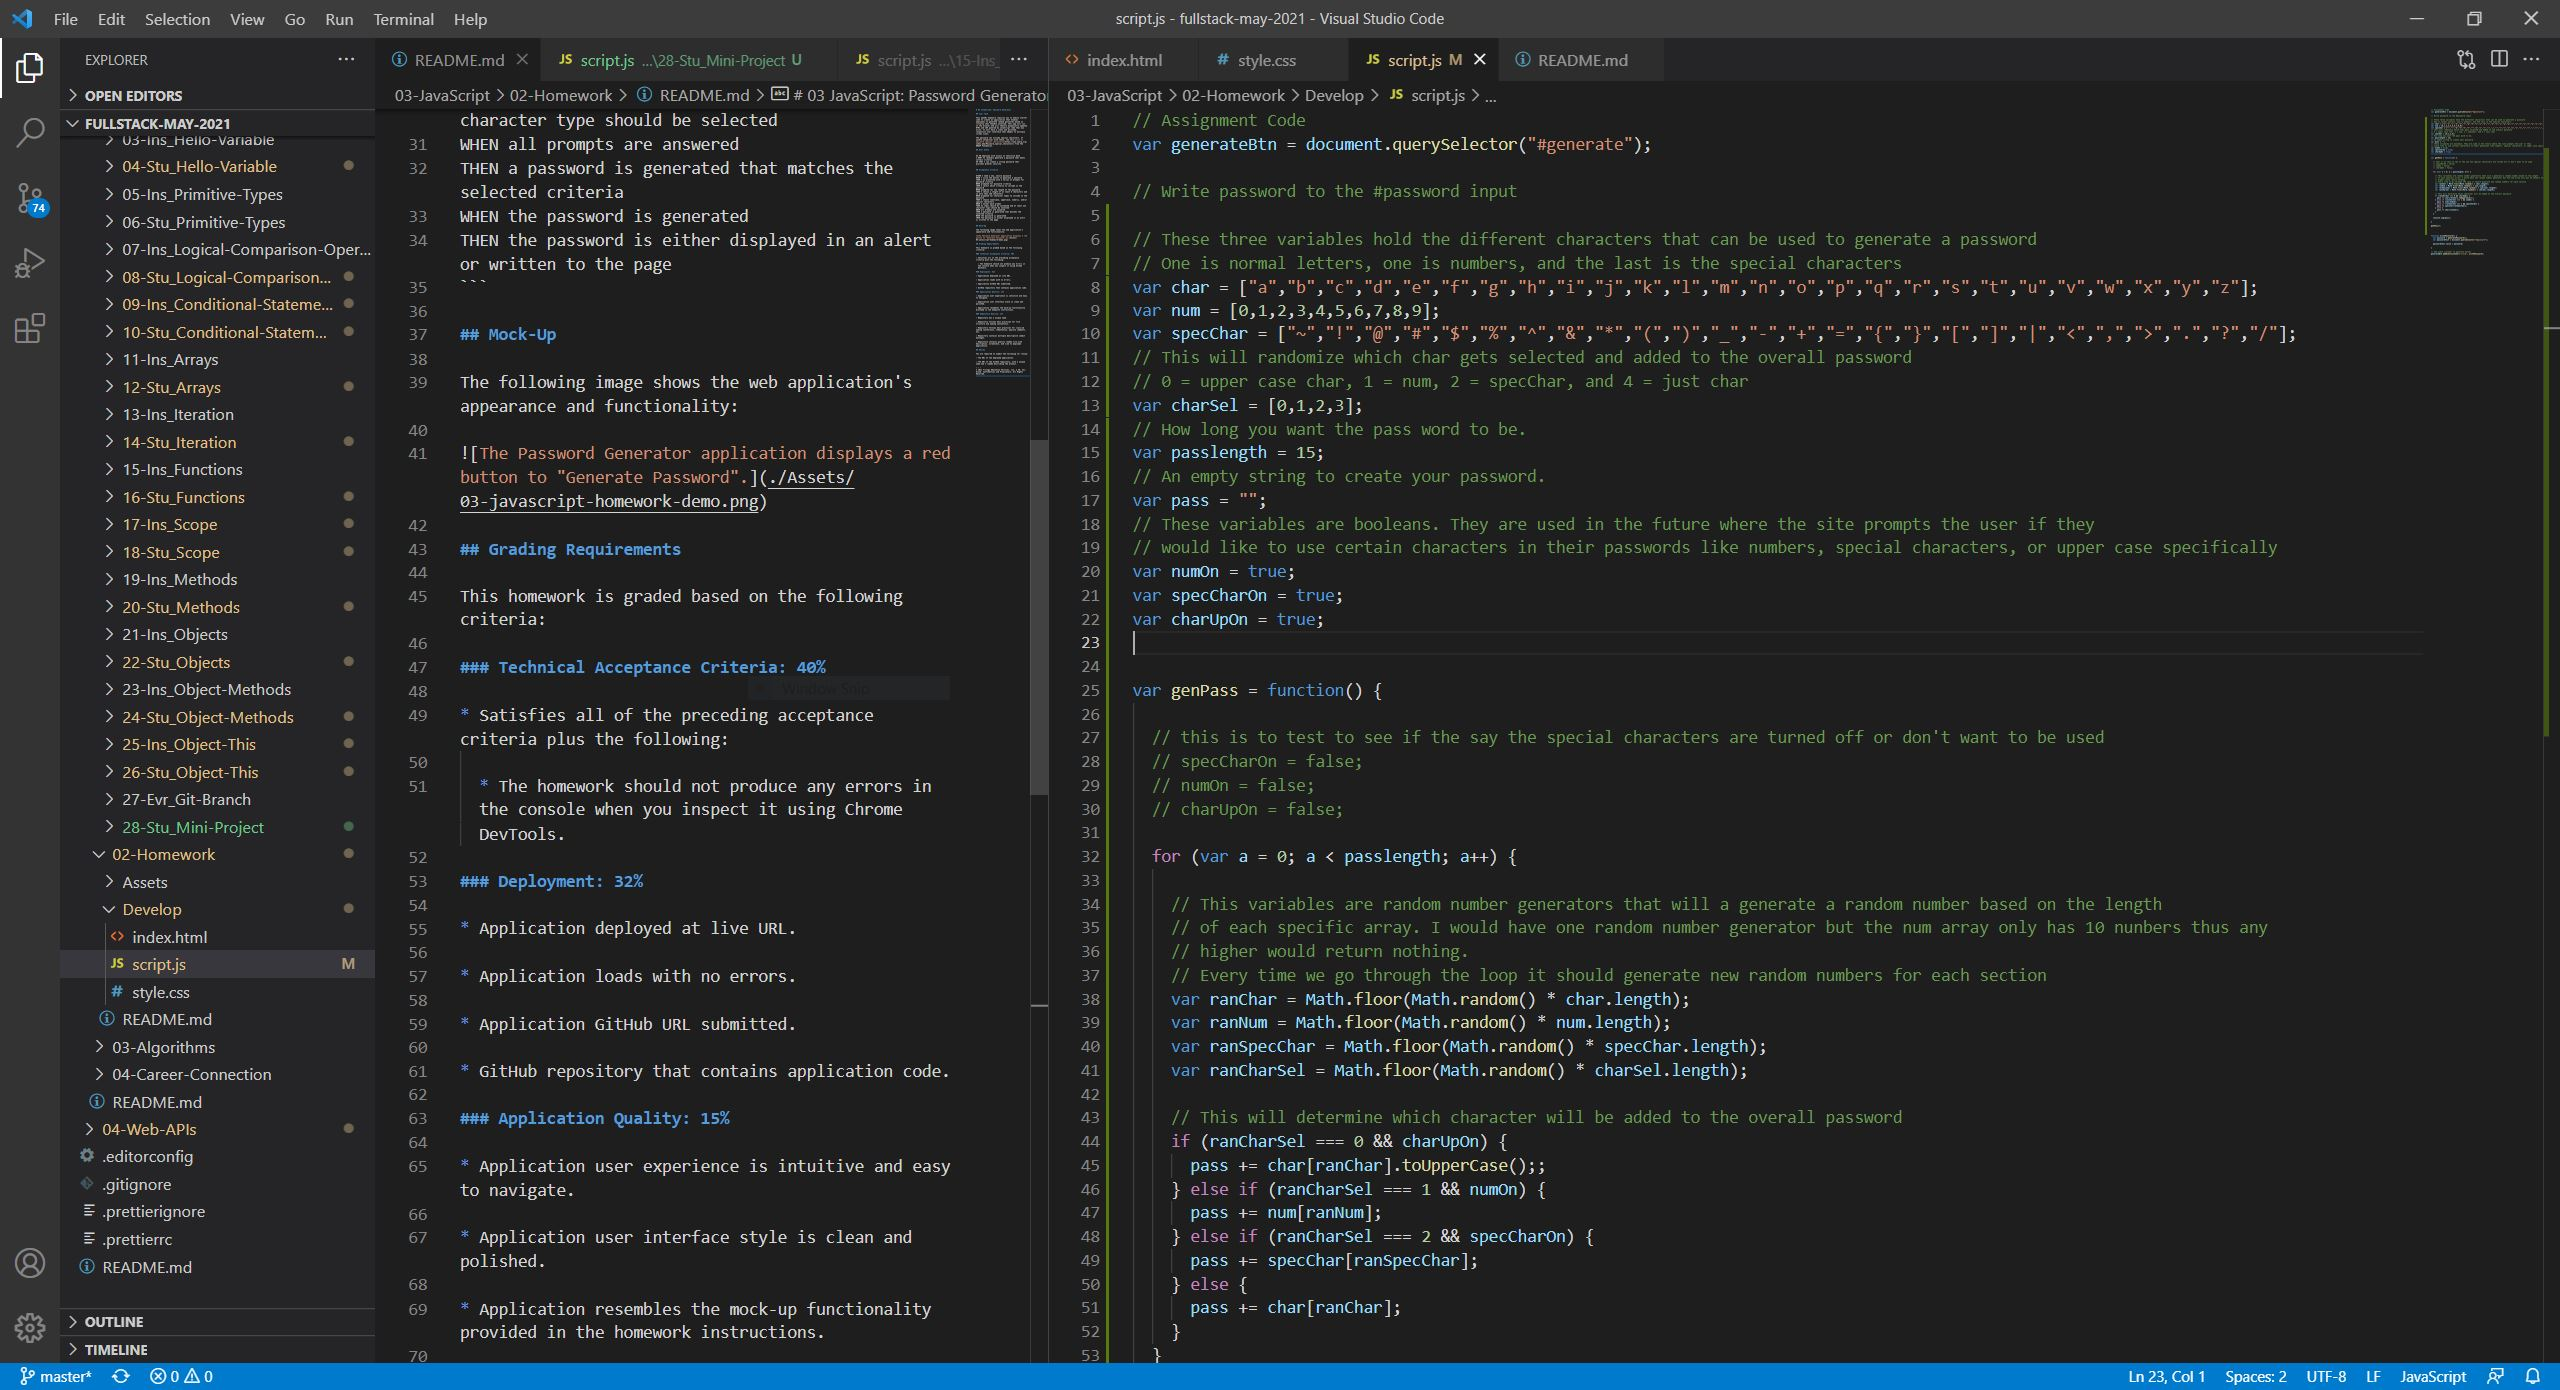
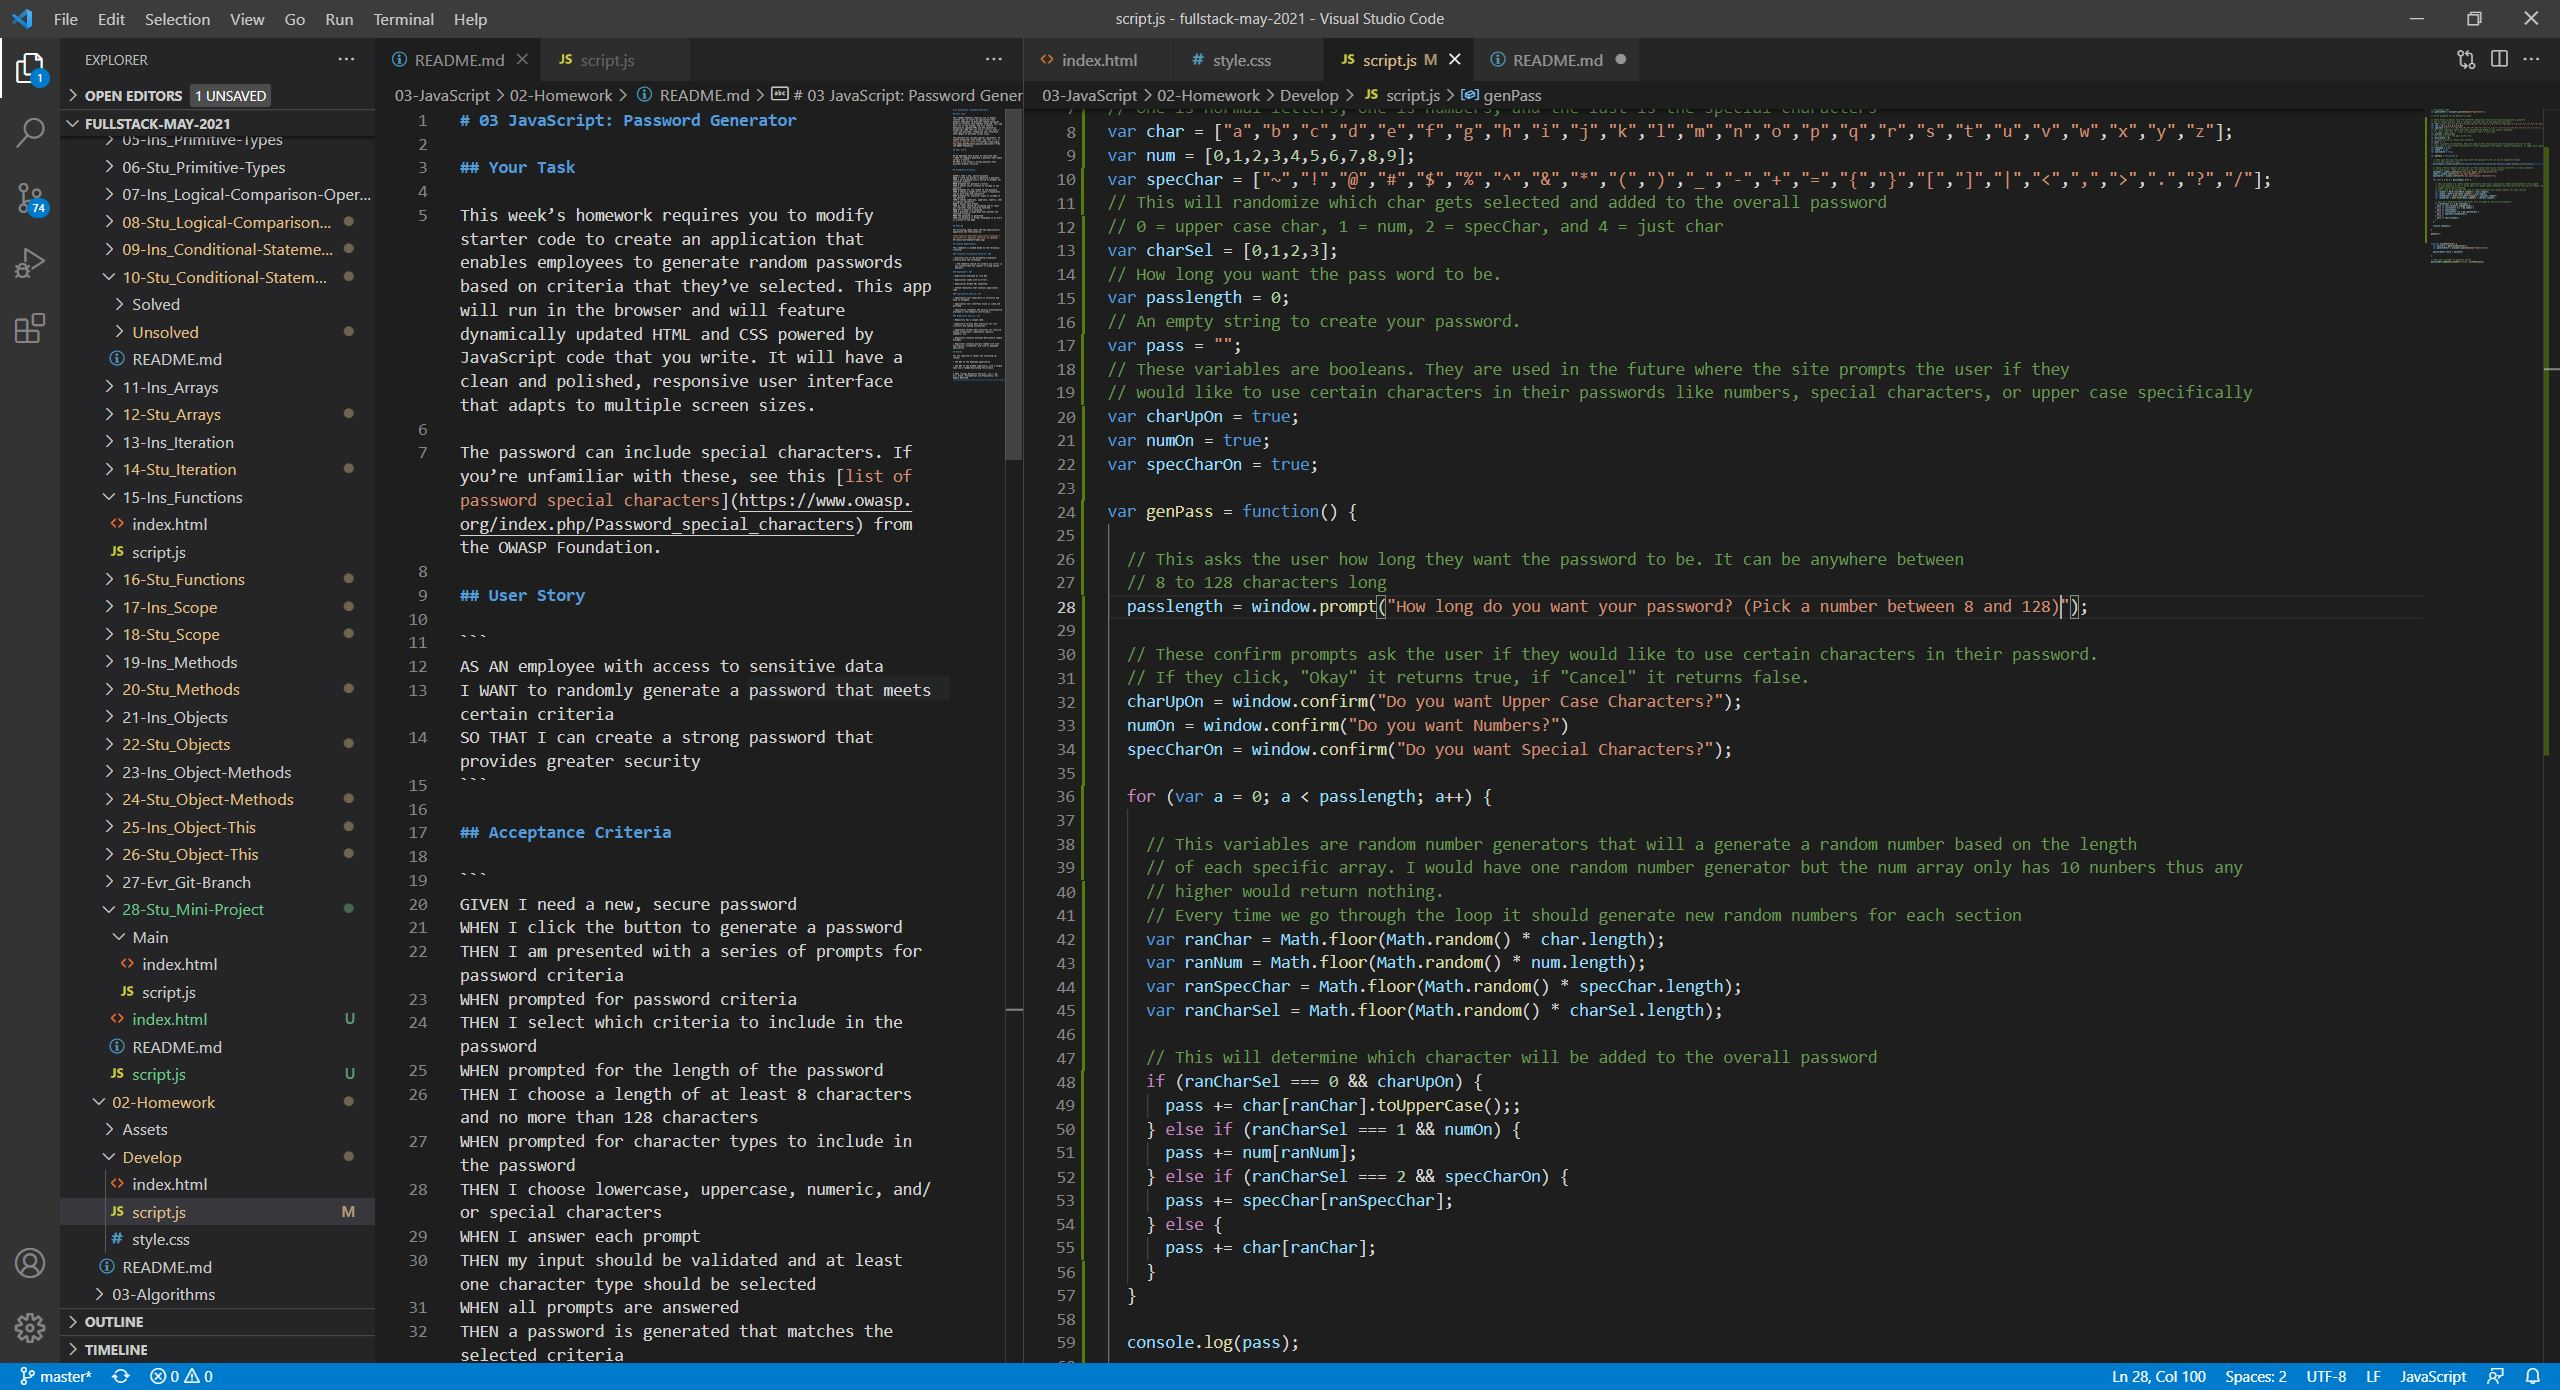
Added additional description and Images to ReadMe, Added a user prompt criterias set by user

diff --git a/README.md b/README.md
@@ -13,11 +13,21 @@ The goal of this project is to create a generator that creates a password. This 
 
 ## Screeshots/Image
 --Basic rough draft of the password generator code--
-![Rough Draft](./screenshots/screenshot1.jpg)
+![Rough Draft](./screenshots/screenshot1.JPG)
 
 
 --The generator in action where the results are shown in the console log--
-![Generator in Action](./screenshots/screenshot2.jpg)
+![Generator in Action](./screenshots/screenshot2.JPG)
+
+
+--Adding boolean values used to check if a certain password criteria is selected--
+--Input prompt for user length password and criteria prompts--
+![Criteria Prompts](./screenshots/screenshot3.JPG)
+
+
+--User prompts in action--
+![User Prompts in Action](./screenshots/screenshot4.JPG)
+
 
 
 ## Working Application
